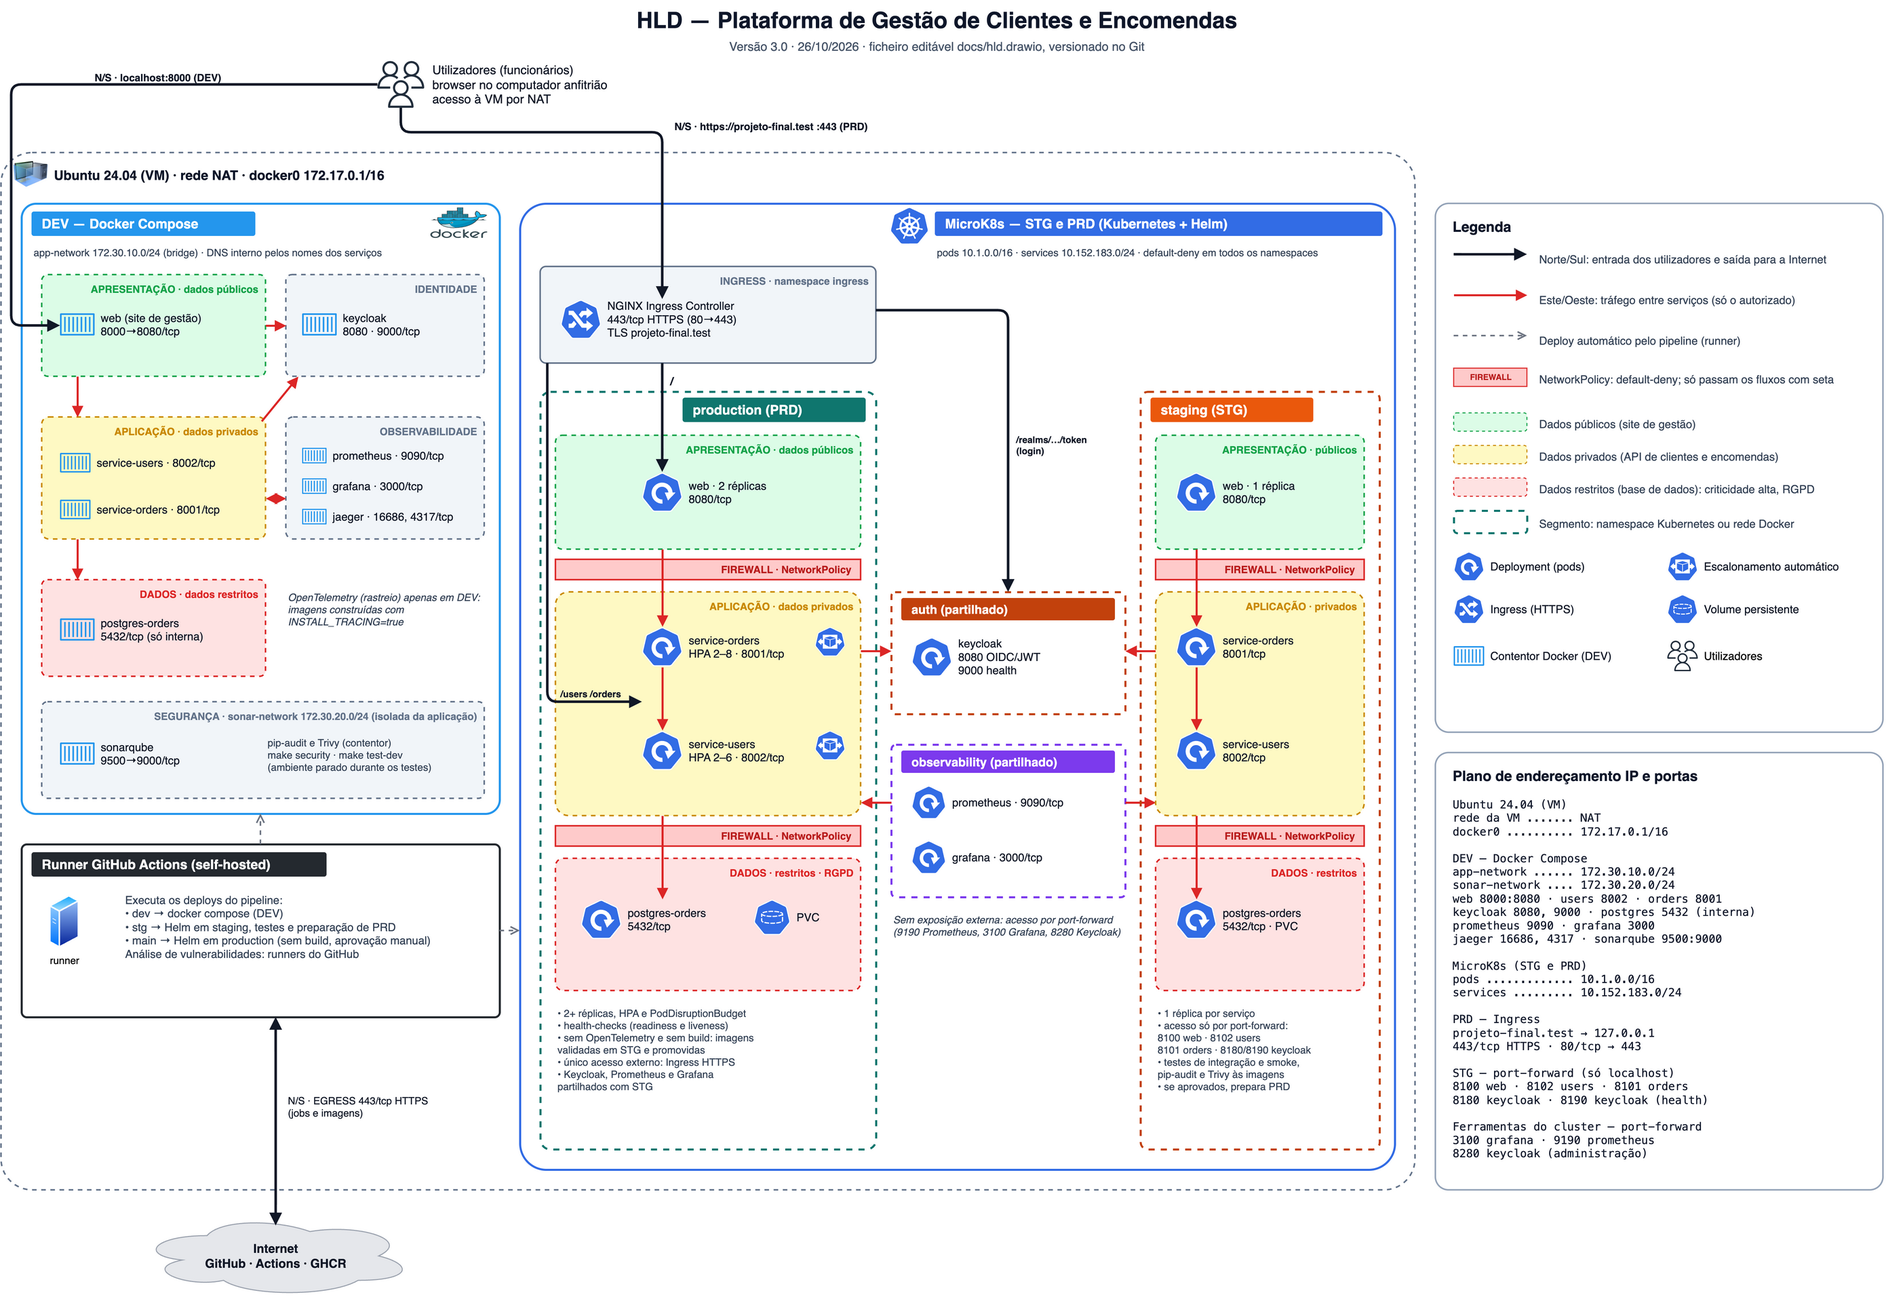
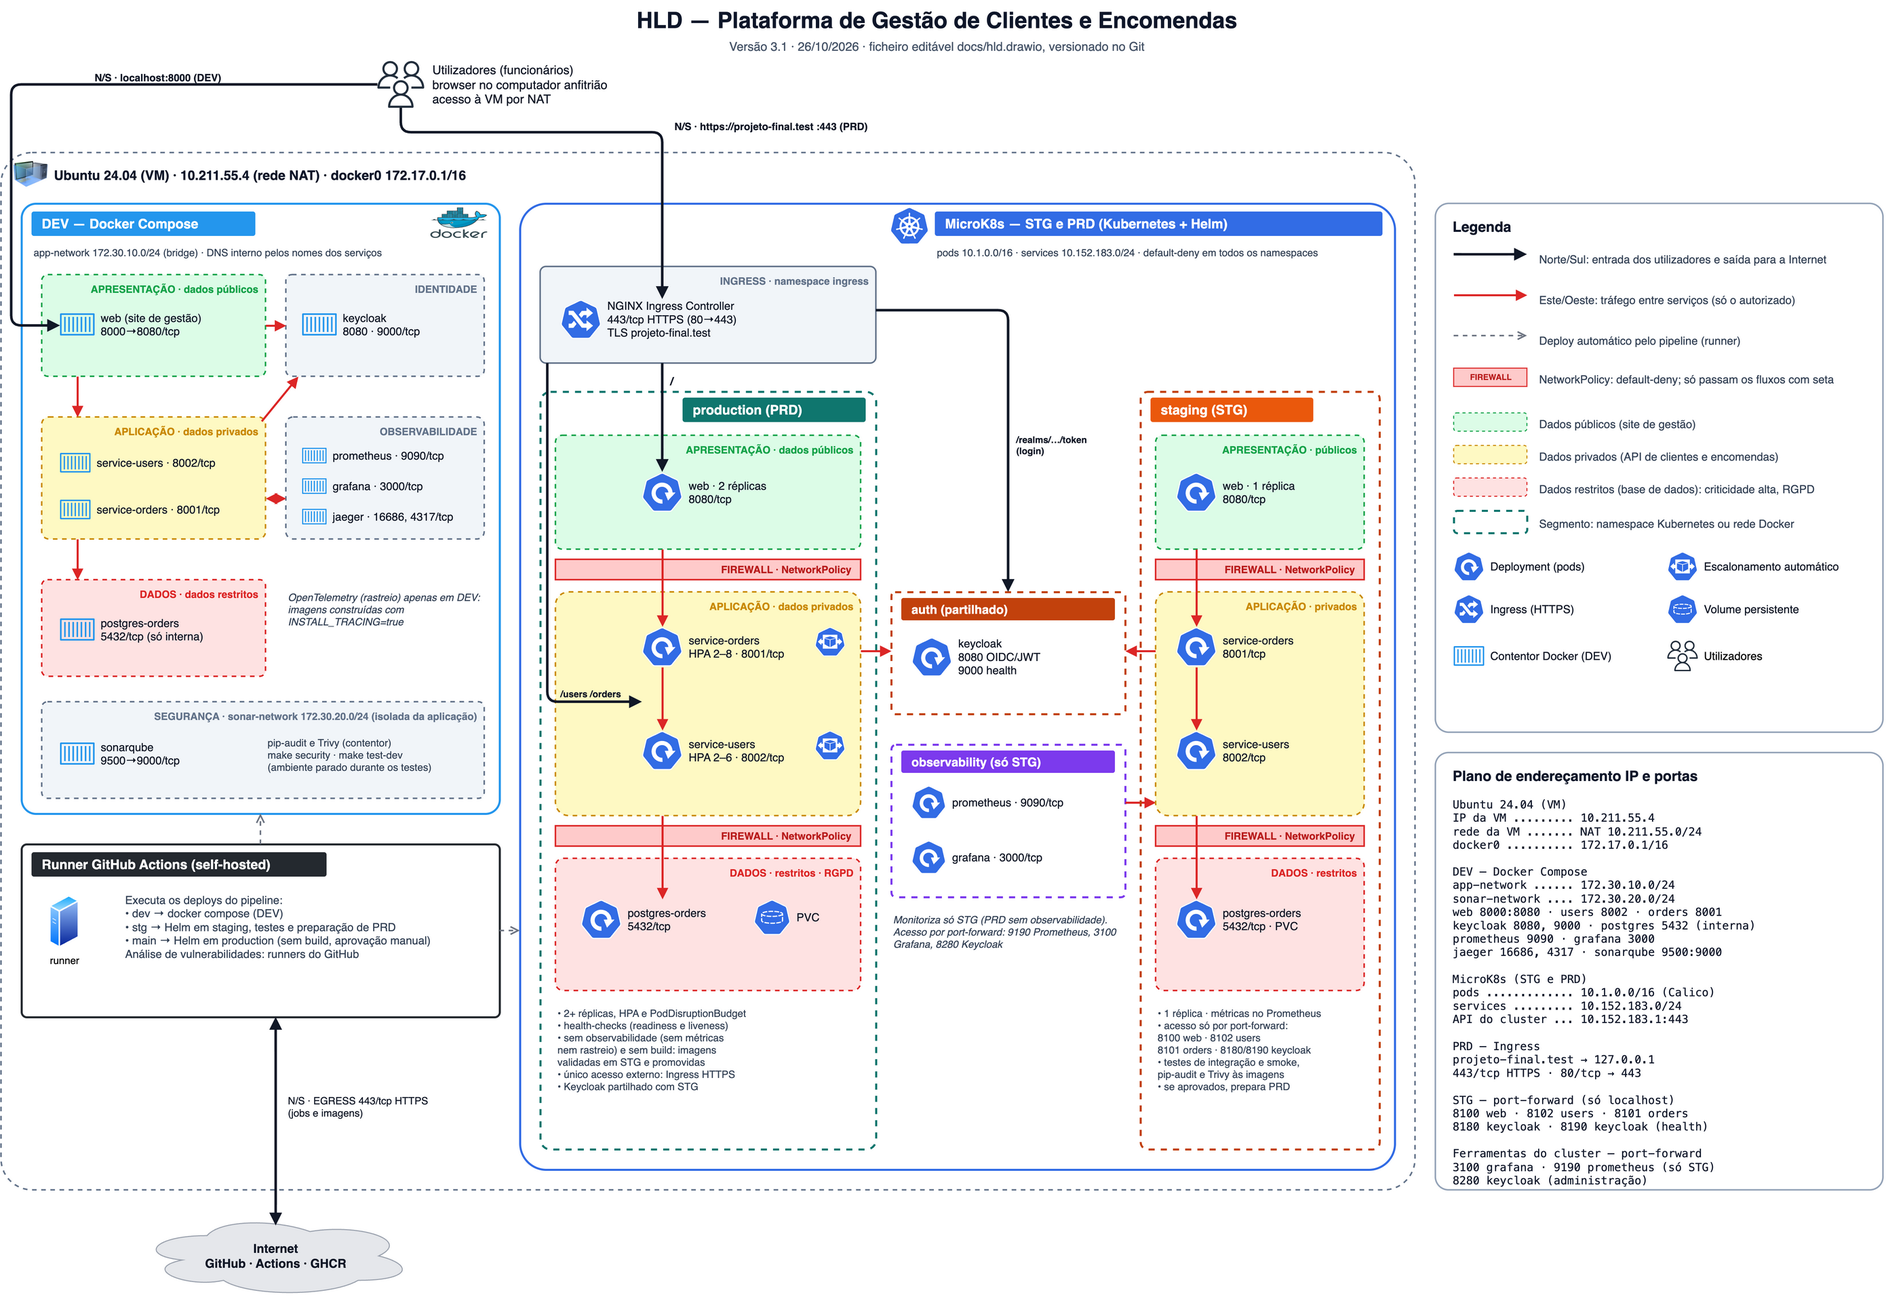
Retira a observabilidade de PRD
PRD não tem observabilidade: métricas e alertas só em DEV e STG, rastreio só em DEV.

- Helm: observability.enableMetrics=false em values-production.yaml (sem anotações
  de scrape nem regra de NetworkPolicy para o namespace observability)
- Prometheus: recolhe métricas apenas do namespace staging
- Pipeline: o deploy de PRD já não aplica a monitorização nem captura evidência
  de observabilidade
- Makefile, README, Passo 8 e HLD (versão 3.1) atualizados

diff --git a/Passo 8.md b/Passo 8.md
@@ -10,7 +10,7 @@ A plataforma permite a uma organização registar os seus clientes e as respetiv
 
 ## 2. Arquitetura da solução
 
-A solução é composta por três serviços aplicacionais executados em contentores — o site de gestão, a API de clientes e a API de encomendas —, por uma base de dados PostgreSQL, pelo Keycloak, responsável pela autenticação e autorização, e pelas ferramentas de monitorização Prometheus, Grafana e Jaeger (este último apenas em DEV). A API de encomendas comunica com a API de clientes para validar o cliente associado a cada encomenda. A análise de vulnerabilidades é feita pelo SonarQube (código), pelo pip-audit (dependências Python) e pelo Trivy (dependências e imagens), fora da aplicação.
+A solução é composta por três serviços aplicacionais executados em contentores — o site de gestão, a API de clientes e a API de encomendas —, por uma base de dados PostgreSQL, pelo Keycloak, responsável pela autenticação e autorização, e pelas ferramentas de monitorização Prometheus e Grafana (DEV e STG) e Jaeger (só DEV). PRD não tem observabilidade. A API de encomendas comunica com a API de clientes para validar o cliente associado a cada encomenda. A análise de vulnerabilidades é feita pelo SonarQube (código), pelo pip-audit (dependências Python) e pelo Trivy (dependências e imagens), fora da aplicação.
 
 ![Arquitetura de alto nível (HLD)](docs/hld.png)
 
@@ -36,7 +36,7 @@ A implementação decorreu de forma incremental. Cada fase foi validada antes do
 | 3. Contentorização | Um Dockerfile por serviço. As imagens incluem apenas as dependências de execução e são executadas por um utilizador sem privilégios. |
 | 4. Ambiente DEV | Ambiente local em Docker Compose, com todos os serviços, para desenvolvimento, testes unitários e testes de vulnerabilidades do código. |
 | 5. Ambientes STG e PRD | Kubernetes (MicroK8s) com um único *chart* Helm e um ficheiro de valores por ambiente. Em PRD: réplicas, escalonamento automático e ponto de entrada único em HTTPS. |
-| 6. Observabilidade | Métricas no Prometheus, painéis e alertas no Grafana e, em DEV, rastreio distribuído dos pedidos no Jaeger, através do OpenTelemetry. |
+| 6. Observabilidade | Em DEV e STG, métricas no Prometheus e painéis e alertas no Grafana; em DEV, também rastreio distribuído dos pedidos no Jaeger, através do OpenTelemetry. PRD não tem observabilidade. |
 | 7. Site de gestão | *Backoffice* web que permite aos funcionários gerir clientes e encomendas sem recorrer diretamente à API. |
 | 8. Entrega contínua | Pipeline em GitHub Actions: análise de vulnerabilidades (código, dependências e imagens), construção das imagens, testes e *deploy*, segundo a ordem `dev`, `stg` e `main`. |
 | 9. Consolidação | Separação estrita entre STG (onde tudo é construído, gerado e validado) e PRD (onde apenas se sobe o ambiente), limpeza integral dos ambientes e elaboração da documentação. |
@@ -48,7 +48,8 @@ A implementação decorreu de forma incremental. Cada fase foi validada antes do
 |---|---|
 | Três ambientes com funções distintas | DEV destina-se ao desenvolvimento, STG à validação e PRD à exploração. Os testes unitários e de vulnerabilidades são executados em DEV, e os de integração, *smoke* e de vulnerabilidades em STG; em PRD não são executados testes, sendo a disponibilidade assegurada pelos *health-checks* do Kubernetes. DEV e STG não correm em simultâneo: `make build-stg` começa por limpar DEV (`make clean-dev`), libertando a memória da máquina para o cluster. Os testes de código não precisam do ambiente: `make test-dev` para-o antes de correr. |
 | Em PRD nada é gerado | As imagens são construídas uma única vez em STG, com todas as dependências instaladas. O certificado TLS e o Ingress controller são igualmente preparados em STG. Só depois de os testes de STG passarem as imagens são promovidas para PRD, sem novo *build*. Em PRD apenas se sobe o ambiente, o que torna o arranque rápido e garante que é executado exatamente o que foi validado. |
-| OpenTelemetry apenas em DEV | O rastreio distribuído serve o diagnóstico e a resolução de problemas durante o desenvolvimento. As bibliotecas estão num ficheiro próprio (`requirements-tracing.txt`), instalado só nas imagens de DEV. A imagem de STG, que é a mesma que segue para PRD, não as inclui. Assim, PRD executa exatamente o que foi validado e não tem código de diagnóstico nem o custo de processamento e o volume de dados associados. A monitorização de STG e PRD faz-se por métricas (Prometheus) e alertas (Grafana). |
+| OpenTelemetry apenas em DEV | O rastreio distribuído serve o diagnóstico e a resolução de problemas durante o desenvolvimento. As bibliotecas estão num ficheiro próprio (`requirements-tracing.txt`), instalado só nas imagens de DEV. A imagem de STG, que é a mesma que segue para PRD, não as inclui. Assim, PRD executa exatamente o que foi validado e não tem código de diagnóstico nem o custo de processamento e o volume de dados associados. A monitorização de STG faz-se por métricas (Prometheus) e alertas (Grafana). |
+| Sem observabilidade em PRD | A observabilidade (métricas e rastreio) serve o diagnóstico e a validação, que decorrem em DEV e STG. Em PRD não se fazem testes nem diagnóstico: o Prometheus não recolhe métricas de `production` (`observability.enableMetrics: false` em `values-production.yaml`, sem regra de NetworkPolicy para o *namespace* `observability`), e o pipeline de `main` não aplica nem consulta a monitorização. A disponibilidade em PRD é assegurada pelos *health-checks* do Kubernetes, pelo número mínimo de réplicas e pelo escalonamento automático. |
 | Testes de vulnerabilidades em várias camadas, sem exceções | O SonarQube analisa o código Python. O pip-audit e o Trivy analisam as dependências Python, e o Trivy analisa também as imagens que seguem para PRD. Os testes estão em `tests/security` e correm em DEV (`make test-dev`), em STG (`make test-stg`) e no pipeline. Nenhuma vulnerabilidade é ignorada (o `.trivyignore` não tem exceções). As que existiam foram resolvidas: atualização do `starlette` e do `PyJWT`, mudança da base das imagens de Debian para Alpine (eliminou 44 vulnerabilidades HIGH do sistema operativo sem correção) e remoção do `pip` das imagens. Os resultados estão em `tests/security/RESULTADOS.md`. |
 | SonarQube local, a pedido | O SonarQube corre em Docker, no *profile* `sonar` do `docker-compose.yml`, fora da rede da aplicação. Só é iniciado por `make security`, com a memória limitada a cerca de 1,5 GB, e é parado no fim da análise. Não corre em STG, onde não cabe em memória ao lado do cluster; o código é o mesmo já analisado em DEV e no pipeline. As análises ficam guardadas em volume e podem ser consultadas no painel (`make sonar-up`). |
 | Portabilidade entre máquinas | O projeto é executado noutras máquinas Ubuntu, com outras permissões. `make check` verifica os programas, o acesso ao Docker sem `sudo`, as permissões de `sudo` e a memória, e indica como corrigir cada falha. O `make` pede a palavra-passe do `sudo` antes de abrir *port-forwards* e espera que fiquem ativos antes de correr os testes. Os pré-requisitos estão no README (secção 3). |
@@ -57,7 +58,7 @@ A implementação decorreu de forma incremental. Cada fase foi validada antes do
 | Autenticação centralizada | O Keycloak assume a autenticação e a autorização, evitando que cada serviço gira credenciais. A configuração inicial é mantida em ficheiro, o que torna os ambientes reprodutíveis. |
 | Sub-redes fixas em DEV | A rede da aplicação (`172.30.10.0/24`) e a das ferramentas de segurança (`172.30.20.0/24`) são definidas no `docker-compose.yml`. O plano de endereçamento fica previsível e documentado no HLD, e as ferramentas de análise ficam num segmento separado da aplicação. |
 | Rede restrita por omissão | As NetworkPolicies bloqueiam todo o tráfego no cluster e autorizam apenas as ligações necessárias entre componentes. |
-| Isolamento por *namespace* | A aplicação, a identidade e a observabilidade residem em *namespaces* distintos. O Keycloak e a monitorização são partilhados por STG e PRD. |
+| Isolamento por *namespace* | A aplicação, a identidade e a observabilidade residem em *namespaces* distintos. O Keycloak é partilhado por STG e PRD; a monitorização serve apenas STG. |
 | Persistência dos dados | A base de dados utiliza um volume persistente, que se mantém após o reinício dos serviços e a paragem do ambiente. Apenas os comandos de limpeza o eliminam. |
 | *Chart* Helm único | O mesmo *chart* serve STG e PRD; as diferenças (réplicas, HTTPS, rastreio, recursos) residem nos ficheiros de valores. |
 | Makefile como ponto de entrada | Os mesmos comandos em todos os ambientes (`build`, `run`, `test`, `clean`). O Makefile deteta o cluster e a variante do Docker Compose disponíveis e arranca o MicroK8s quando este se encontra parado. |
@@ -75,7 +76,7 @@ A implementação decorreu de forma incremental. Cada fase foi validada antes do
 | PostgreSQL 16 | Base de dados de clientes e encomendas |
 | Keycloak 26 | Autenticação e autorização (OIDC) |
 | nginx | Servidor do site de gestão e Ingress HTTPS em PRD |
-| Prometheus e Grafana | Métricas, painéis e alertas (todos os ambientes) |
+| Prometheus e Grafana | Métricas, painéis e alertas (DEV e STG) |
 | Jaeger e OpenTelemetry | Rastreio distribuído (DEV) |
 | SonarQube Community 26.9 | Testes de vulnerabilidades do código Python (*quality gate* de segurança) |
 | Trivy 0.76.1 | Análise de vulnerabilidades das dependências e das imagens (corre num contentor) |

diff --git a/README.md b/README.md
@@ -32,7 +32,7 @@ A plataforma destina-se a organizações que necessitam de registar os seus clie
 | Entregas rápidas e controladas | Cada alteração é analisada, testada e publicada automaticamente pela ordem DEV → STG → PRD. A versão que chega a produção é exatamente a que foi validada em STG |
 | Disponibilidade e escalabilidade | Em produção, o site de gestão e as duas API executam com um mínimo de duas réplicas; as API escalam automaticamente em função da carga (até 6 e 8 réplicas) |
 | Proteção dos dados | Em produção existe um único ponto de entrada, em HTTPS, e todas as operações exigem autenticação e a permissão adequada |
-| Deteção precoce de problemas | Análise de vulnerabilidades do código, das dependências e das imagens antes de cada entrega; métricas e alertas em tempo real; rastreio de pedidos entre serviços em DEV |
+| Deteção precoce de problemas | Análise de vulnerabilidades do código, das dependências e das imagens antes de cada entrega; métricas e alertas em tempo real em DEV e STG; rastreio de pedidos entre serviços em DEV |
 | Reprodutibilidade | Cada ambiente é criado com dois comandos e totalmente removido com um |
 
 ### Ambientes
@@ -58,13 +58,13 @@ O diagrama mostra a hierarquia máquina → ambientes → segmentos e, em cada a
 | **service-orders** | API de encomendas (FastAPI); valida cada cliente junto do `service-users` |
 | **PostgreSQL** | Base de dados, com armazenamento persistente |
 | **Keycloak** | Autenticação e autorização (OIDC/JWT) |
-| **Prometheus** | Recolha de métricas |
-| **Grafana** | Painéis e alertas |
+| **Prometheus** | Recolha de métricas (DEV e STG) |
+| **Grafana** | Painéis e alertas (DEV e STG) |
 | **Jaeger** | Rastreio distribuído (OpenTelemetry), apenas em DEV |
 | **SonarQube** | Análise de vulnerabilidades e qualidade do código Python (servidor local em Docker) |
 | **pip-audit** e **Trivy** | Análise de vulnerabilidades das dependências Python e das imagens Docker |
 
-Em STG e PRD, o Keycloak e as ferramentas de monitorização residem em *namespaces* próprios (`auth` e `observability`) e são partilhados pelos dois ambientes.
+No cluster, o Keycloak reside no *namespace* `auth` e é partilhado por STG e PRD. As ferramentas de monitorização residem no *namespace* `observability` e monitorizam apenas STG: PRD não tem observabilidade (nem métricas, nem rastreio).
 
 ---
 
@@ -168,7 +168,7 @@ STG é o ambiente onde tudo é construído, gerado e validado. Só o que é apro
 | Passo | Comando | Resultado |
 |---|---|---|
 | 1. Construção | `make build-stg` | Começa por limpar DEV (`make clean-dev`), para que os dois ambientes não disputem a memória da máquina. Constrói depois as imagens com todas as dependências de produção instaladas, carrega-as no cluster, gera o certificado TLS de PRD e instala no `.venv` os módulos de teste |
-| 2. Arranque | `make run-stg` | Instala o Keycloak, as ferramentas de monitorização, o Ingress controller e a aplicação |
+| 2. Arranque | `make run-stg` | Instala o Keycloak, as ferramentas de monitorização de STG, o Ingress controller e a aplicação |
 | 3. Validação | `make test-stg` | Executa os testes de integração e *smoke* contra o cluster e os testes de vulnerabilidades às dependências e às imagens que seguem para PRD (pip-audit e Trivy). Se forem aprovados, prepara PRD: promove as imagens (`stg` → `main`, sem novo *build*) e instala o certificado TLS no cluster. `make integration-stg` executa apenas os testes de integração e *smoke*, sem preparar PRD |
 | 4. Demonstração (opcional) | `make demo-stg` | Cria, edita e apaga um cliente e uma encomenda |
 
@@ -182,7 +182,7 @@ O site de gestão fica então disponível em <http://localhost:8100>.
 
 ### 4.3 PRD
 
-Em produção nada é construído nem gerado e não se executam testes: apenas se sobe o ambiente com as imagens e o certificado preparados e validados em STG. O arranque é rápido e executa exatamente o que foi testado. O rastreio distribuído (OpenTelemetry) existe apenas em DEV: as bibliotecas não fazem parte da imagem de STG e PRD.
+Em produção nada é construído nem gerado e não se executam testes: apenas se sobe o ambiente com as imagens e o certificado preparados e validados em STG. O arranque é rápido e executa exatamente o que foi testado. PRD não tem observabilidade: o rastreio distribuído (OpenTelemetry) existe apenas em DEV, e as métricas (Prometheus e Grafana) apenas em DEV e STG.
 
 | Passo | Comando | Resultado |
 |---|---|---|
@@ -210,16 +210,16 @@ Sempre que é solicitada autenticação: utilizador **`admin`**, palavra-passe *
 
 | | DEV | STG | PRD |
 |---|---|---|---|
-| **Condição prévia** | `make run-dev` | `make forward-stg` (site) e `make forward-infra` (ferramentas) | `make forward-infra` (apenas para as ferramentas) |
+| **Condição prévia** | `make run-dev` | `make forward-stg` (site) e `make forward-infra` (ferramentas) | `make forward-infra` (apenas para a consola do Keycloak) |
 | **Site de gestão** | <http://localhost:8000> | <http://localhost:8100> | <https://projeto-final.test/> |
-| **Grafana** | <http://localhost:3000> | <http://localhost:3100> | <http://localhost:3100> |
-| **Prometheus** | <http://localhost:9090> | <http://localhost:9190> | <http://localhost:9190> |
+| **Grafana** | <http://localhost:3000> | <http://localhost:3100> | — (sem observabilidade em PRD) |
+| **Prometheus** | <http://localhost:9090> | <http://localhost:9190> | — (sem observabilidade em PRD) |
 | **Jaeger** | <http://localhost:16686> | — (rastreio só em DEV) | — |
 | **Keycloak** (administração) | <http://localhost:8080> | <http://localhost:8280> | <http://localhost:8280> |
 | **SonarQube** | <http://localhost:9500> (`make sonar-up`) | — | — |
 
 - O site de gestão, o Grafana, o Keycloak e o SonarQube exigem autenticação. O SonarQube é iniciado por `make security` e parado no fim da análise, para libertar memória; para consultar o painel: `make sonar-up`. Usa o utilizador **`admin`** com a palavra-passe **`ProjetoFinal.2026`**, definida na primeira execução. O Prometheus e o Jaeger não dispõem de ecrã de autenticação.
-- Em STG e PRD, as ferramentas de monitorização e a administração do Keycloak não são expostas para o exterior do cluster; o acesso faz-se exclusivamente através de `make forward-infra`. Por serem partilhadas, os endereços coincidem nos dois ambientes.
+- No cluster, as ferramentas de monitorização (só STG) e a administração do Keycloak (partilhado por STG e PRD) não são expostas para o exterior; o acesso faz-se exclusivamente através de `make forward-infra`.
 - As credenciais indicadas são de demonstração e devem ser alteradas antes de qualquer utilização com dados reais (secção 11).
 
 ---
@@ -279,7 +279,7 @@ A palavra-passe de uma conta existente é alterada no mesmo local, em *Credentia
 
 ## 7. Monitorização
 
-Para que existam dados, deve utilizar-se previamente o site ou executar `make demo-dev` algumas vezes.
+A monitorização existe em DEV e STG; PRD não tem observabilidade. Para que existam dados, deve utilizar-se previamente o site ou executar `make demo-dev` (ou `make demo-stg`) algumas vezes.
 
 | Ferramenta | Procedimento | Informação disponível |
 |---|---|---|
@@ -303,7 +303,7 @@ sum(rate(http_requests_total[5m])) by (service)
 | `make clean-dev` | Limpeza Docker completa: `docker compose down -v --rmi all --remove-orphans`, paragem de todos os contentores, `docker system prune -af --volumes`, `volume prune`, `network prune` e `builder prune`; remove ainda o `.venv` e os ficheiros temporários e apresenta `docker system df`. **Elimina os dados** |
 | `make clean-stg` | Remove a aplicação e o *namespace* `staging`, todas as imagens do projeto (no cluster e no Docker) e o certificado gerado em STG. **Elimina os dados** |
 | `make clean-prd` | Remove a aplicação, o *namespace* `production`, o Ingress do Keycloak, o Secret TLS e a entrada `projeto-final.test` do `/etc/hosts`. **Elimina os dados** |
-| `make clean-infra` | Remove o Keycloak, a monitorização, o Ingress controller, o RBAC de cluster do Prometheus e as imagens de terceiros carregadas no cluster |
+| `make clean-infra` | Remove o Keycloak, a monitorização de STG, o Ingress controller, o RBAC de cluster do Prometheus e as imagens de terceiros carregadas no cluster |
 | `make sonar-down` | Para o SonarQube, preservando as análises |
 | `make clean-sonar` | Remove o SonarQube: contentor, volumes (análises) e imagem |
 | `make clean` | Executa todas as limpezas anteriores e remove os ficheiros de acesso ao cluster (`kubeconfig-*.yaml`) e os *port-forwards* ativos |
